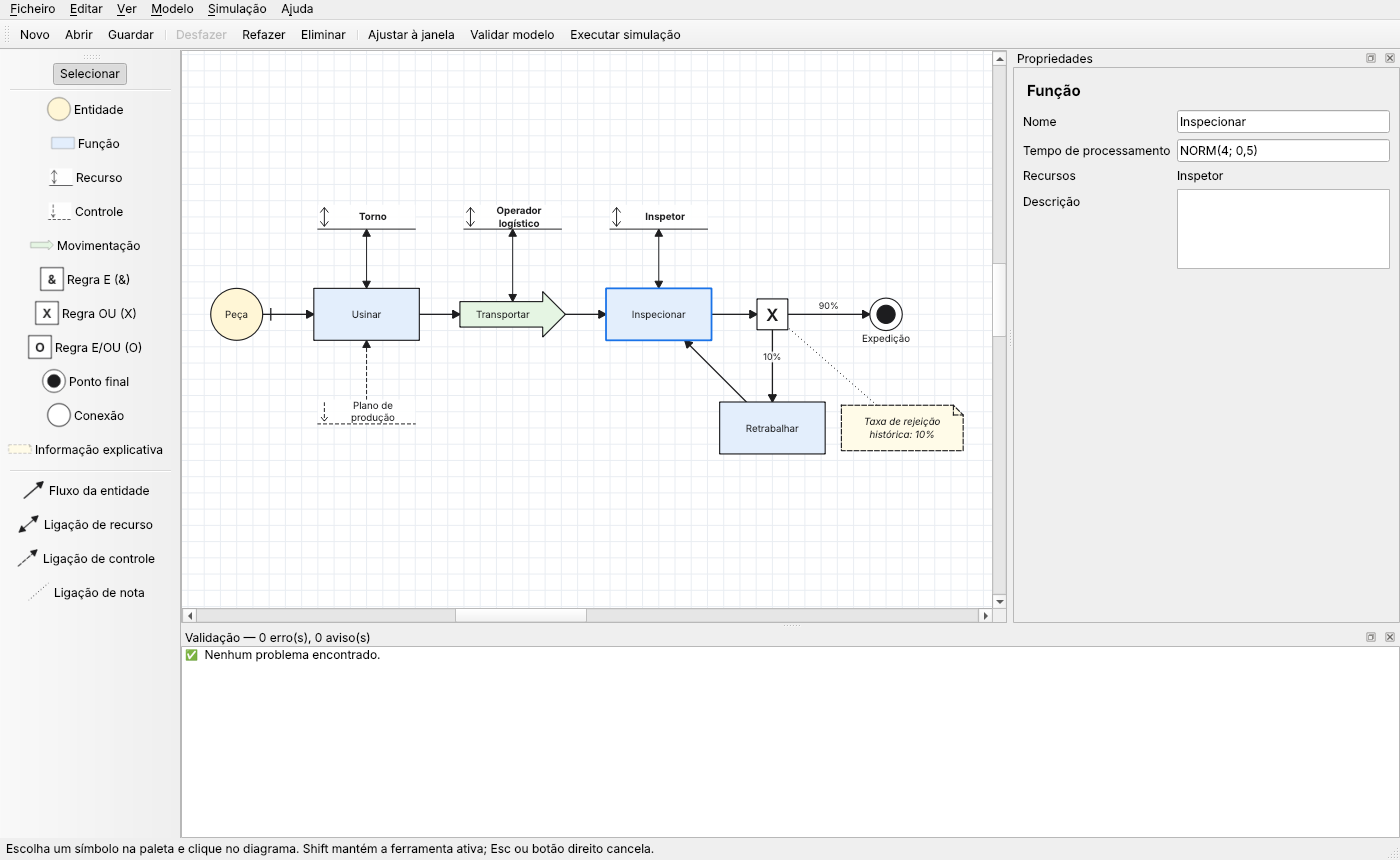
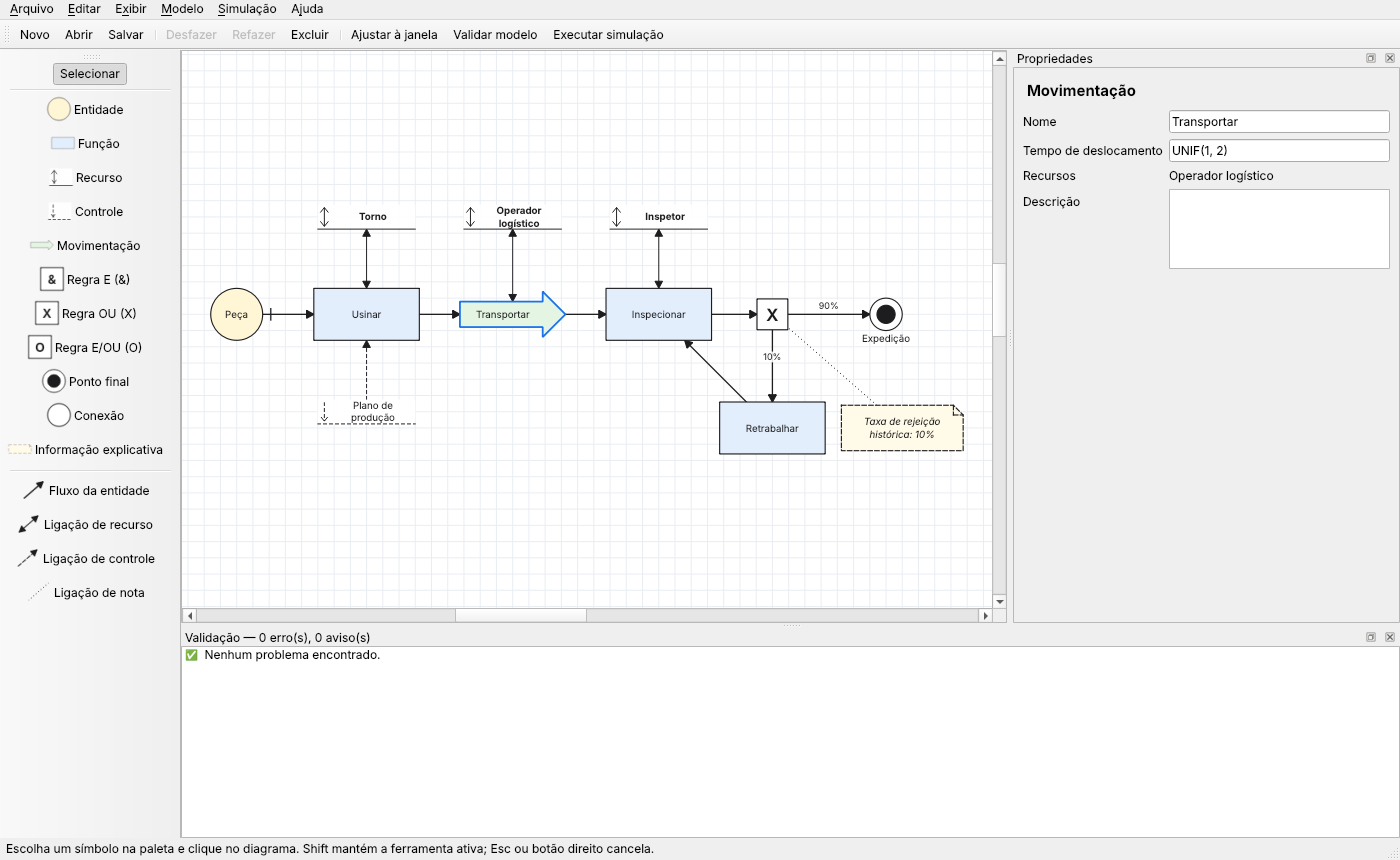
Traduz a interface do IDEF-SIM Studio para português do Brasil
Menus, diálogos, mensagens, exemplos e README passam a usar o
vocabulário brasileiro (Arquivo, Salvar, Excluir, Exibir...) e os
botões padrão do Qt carregam a tradução pt_BR.

Claude-Session: https://claude.ai/code/session_015ZZoPR2mA28L3jUPv8wU52

diff --git a/idefsim/gui/main_window.py b/idefsim/gui/main_window.py
@@ -24,7 +24,7 @@ from .items import EdgeItem, NodeItem
 from .properties import PropertiesPanel
 from .scene import DiagramScene
 
-FILE_FILTER = f"Modelos IDEF-SIM (*{FILE_EXTENSION});;Todos os ficheiros (*)"
+FILE_FILTER = f"Modelos IDEF-SIM (*{FILE_EXTENSION});;Todos os arquivos (*)"
 MAX_HISTORY = 200
 
 
@@ -109,19 +109,19 @@ class MainWindow(QMainWindow):
         S = QKeySequence.StandardKey
         self.a_new = self._act("&Novo", self.new_model, S.New)
         self.a_open = self._act("&Abrir…", lambda: self.open_file(), S.Open)
-        self.a_save = self._act("&Guardar", self.save, S.Save)
-        self.a_save_as = self._act("Guardar &como…", self.save_as, S.SaveAs)
+        self.a_save = self._act("&Salvar", self.save, S.Save)
+        self.a_save_as = self._act("Salvar &como…", self.save_as, S.SaveAs)
         self.a_png = self._act("Exportar imagem PNG…", lambda: self.export_image("png"))
         self.a_svg = self._act("Exportar imagem SVG…", lambda: self.export_image("svg"))
         self.a_html = self._act("Exportar documentação HTML…", self.export_html)
         self.a_quit = self._act("&Sair", self.close, S.Quit)
         self.a_undo = self._act("&Desfazer", self.undo, S.Undo)
         self.a_redo = self._act("&Refazer", self.redo, S.Redo)
-        self.a_del = self._act("&Eliminar", self.scene.delete_selected, S.Delete)
+        self.a_del = self._act("&Excluir", self.scene.delete_selected, S.Delete)
         self.a_dup = self._act("D&uplicar", self.scene.duplicate_selected, "Ctrl+D")
         self.a_all = self._act("Selecionar &tudo", self._select_all, S.SelectAll)
-        self.a_zin = self._act("Ampliar", lambda: self.view.scale(1.2, 1.2), S.ZoomIn)
-        self.a_zout = self._act("Reduzir", lambda: self.view.scale(1 / 1.2, 1 / 1.2), S.ZoomOut)
+        self.a_zin = self._act("Aumentar zoom", lambda: self.view.scale(1.2, 1.2), S.ZoomIn)
+        self.a_zout = self._act("Diminuir zoom", lambda: self.view.scale(1 / 1.2, 1 / 1.2), S.ZoomOut)
         self.a_fit = self._act("Ajustar à janela", self.fit, "Ctrl+0")
         self.a_validate = self._act("&Validar modelo", self.validate, "F7")
         self.a_run = self._act("&Executar simulação", self.run_sim, "F5")
@@ -131,9 +131,9 @@ class MainWindow(QMainWindow):
 
     def _build_menus(self):
         mb = self.menuBar()
-        m = mb.addMenu("&Ficheiro")
+        m = mb.addMenu("&Arquivo")
         m.addActions([self.a_new, self.a_open])
-        self.recent_menu = m.addMenu("Abrir &recente")
+        self.recent_menu = m.addMenu("Abrir &recentes")
         ex = m.addMenu("Abrir &exemplo")
         for name, fn in EXAMPLES.items():
             ex.addAction(self._act(name, lambda _=False, fn=fn: self._load_example(fn)))
@@ -147,7 +147,7 @@ class MainWindow(QMainWindow):
         m.addActions([self.a_undo, self.a_redo])
         m.addSeparator()
         m.addActions([self.a_dup, self.a_del, self.a_all])
-        m = mb.addMenu("&Ver")
+        m = mb.addMenu("E&xibir")
         m.addActions([self.a_zin, self.a_zout, self.a_fit])
         m = mb.addMenu("&Modelo")
         m.addActions([self.a_props, self.a_validate])
@@ -287,7 +287,7 @@ class MainWindow(QMainWindow):
         if eid:
             self.scene.select_element(eid)
 
-    # ---------------------------------------------------------- ficheiros
+    # ---------------------------------------------------------- arquivos
     def _set_dirty(self, d: bool):
         self.dirty = d
         self._update_title()
@@ -299,8 +299,8 @@ class MainWindow(QMainWindow):
     def _maybe_save(self) -> bool:
         if not self.dirty:
             return True
-        r = QMessageBox.question(self, "Alterações por guardar",
-                                 "O modelo tem alterações por guardar. Deseja guardá-las?",
+        r = QMessageBox.question(self, "Alterações não salvas",
+                                 "O modelo tem alterações não salvas. Deseja salvá-las?",
                                  QMessageBox.Save | QMessageBox.Discard | QMessageBox.Cancel)
         if r == QMessageBox.Save:
             return self.save()
@@ -333,7 +333,7 @@ class MainWindow(QMainWindow):
         try:
             model = load_model(path)
         except Exception as ex:  # noqa: BLE001
-            QMessageBox.critical(self, "Erro ao abrir", f"Não foi possível abrir o ficheiro:\n{ex}")
+            QMessageBox.critical(self, "Erro ao abrir", f"Não foi possível abrir o arquivo:\n{ex}")
             return
         self._set_model(model, Path(path))
         self._add_recent(path)
@@ -344,16 +344,16 @@ class MainWindow(QMainWindow):
         try:
             save_model(self.scene.model, self.path)
         except OSError as ex:
-            QMessageBox.critical(self, "Erro ao guardar", str(ex))
+            QMessageBox.critical(self, "Erro ao salvar", str(ex))
             return False
         self._set_dirty(False)
         self._add_recent(str(self.path))
-        self.statusBar().showMessage(f"Guardado em {self.path}", 4000)
+        self.statusBar().showMessage(f"Salvo em {self.path}", 4000)
         return True
 
     def save_as(self) -> bool:
         default = str(Path(self._last_dir()) / (self.scene.model.name + FILE_EXTENSION))
-        path, _ = QFileDialog.getSaveFileName(self, "Guardar modelo", default, FILE_FILTER)
+        path, _ = QFileDialog.getSaveFileName(self, "Salvar modelo", default, FILE_FILTER)
         if not path:
             return False
         if not path.endswith(FILE_EXTENSION):
@@ -483,7 +483,7 @@ class MainWindow(QMainWindow):
                                                    "Validação antes de simular.")
             return
         n = self.scene.model.settings.replications
-        dlg = QProgressDialog("A simular…", "Cancelar", 0, n, self)
+        dlg = QProgressDialog("Simulando…", "Cancelar", 0, n, self)
         dlg.setWindowTitle("Simulação")
         dlg.setWindowModality(Qt.WindowModal)
         dlg.setMinimumDuration(300)

diff --git a/idefsim/gui/properties.py b/idefsim/gui/properties.py
@@ -9,7 +9,7 @@ from .. import distributions as dist
 from ..model import (CONNECTION_LABELS, KIND_LABELS, Connection, ConnectionKind as CK,
                      Element, ElementKind as EK, Model, PROCESS_KINDS)
 
-DIST_HELP = ("Distribuições aceites:\n" + "\n".join(dist.SUPPORTED)
+DIST_HELP = ("Distribuições aceitas:\n" + "\n".join(dist.SUPPORTED)
              + "\n\nUse ';' para separar argumentos com vírgula decimal, ex.: NORM(5,5; 0,8)")
 
 
@@ -123,7 +123,7 @@ class PropertiesPanel(QScrollArea):
         self._spin("Semente", s.seed, setter(s, "seed", "Semente"), 0, 2**31 - 1)
         n_el = len(model.elements)
         self.form.addRow(QLabel(f"<i>{n_el} elementos, {len(model.connections)} ligações.<br>"
-                                "Selecione um elemento para editar as suas propriedades.</i>"))
+                                "Selecione um elemento para editar suas propriedades.</i>"))
 
     # ---------------------------------------------------------------- elemento
     def show_element(self, model: Model, e: Element) -> None:
@@ -150,7 +150,7 @@ class PropertiesPanel(QScrollArea):
 
         if e.kind not in (EK.RULE_AND, EK.RULE_OR, EK.RULE_ANDOR):
             self._line("Nome", e.name, set_name,
-                       "Conectores com o mesmo nome ligam-se entre si." if e.kind == EK.CONNECTOR else "")
+                       "Conectores com o mesmo nome se conectam entre si." if e.kind == EK.CONNECTOR else "")
         else:
             self.form.addRow(QLabel(self._rule_help(e.kind)))
 
@@ -168,7 +168,7 @@ class PropertiesPanel(QScrollArea):
                 self._spin("Máx. de chegadas", e.params.get("max_arrivals", 0),
                            set_param("max_arrivals", "Máx. chegadas"), 0, 10**9, "0 = ilimitado")
         elif e.kind in PROCESS_KINDS:
-            self._line("Tempo" + (" de processamento" if e.kind == EK.FUNCTION else " de deslocação"),
+            self._line("Tempo" + (" de processamento" if e.kind == EK.FUNCTION else " de deslocamento"),
                        e.params.get("duration", ""), set_param("duration", "Tempo"), DIST_HELP, dist.is_valid)
             res = model.resources_of(e.id)
             self.form.addRow("Recursos", QLabel(", ".join(r.name for r in res) or
@@ -197,7 +197,7 @@ class PropertiesPanel(QScrollArea):
             EK.RULE_OR: "<b>X (OU)</b>: a entidade segue apenas uma das saídas, escolhida "
                         "pelas probabilidades.",
             EK.RULE_ANDOR: "<b>O (E/OU)</b>: cada saída é seguida de forma independente "
-                           "com a sua probabilidade.",
+                           "com sua probabilidade.",
         }[kind]
 
     def _prob_row(self, model, c: Connection, name: str):

diff --git a/idefsim/model.py b/idefsim/model.py
@@ -209,7 +209,7 @@ class Model:
     def check_connection(self, kind: ConnectionKind, source: str, target: str) -> tuple[str, str]:
         """Valida e normaliza (source, target). Levanta ConnectionError_."""
         if source == target:
-            raise ConnectionError_("Não é possível ligar um elemento a ele próprio.")
+            raise ConnectionError_("Não é possível ligar um elemento a ele mesmo.")
         s, t = self.elements[source], self.elements[target]
         if kind == ConnectionKind.FLOW:
             if s.kind not in FLOW_SOURCES:
@@ -220,12 +220,12 @@ class Model:
             if t.kind == ElementKind.RESOURCE:
                 s, t = t, s
             if s.kind != ElementKind.RESOURCE or t.kind not in PROCESS_KINDS:
-                raise ConnectionError_("Recursos ligam-se apenas a Funções ou Movimentações.")
+                raise ConnectionError_("Recursos só podem ser ligados a Funções ou Movimentações.")
         elif kind == ConnectionKind.CONTROL:
             if t.kind == ElementKind.CONTROL:
                 s, t = t, s
             if s.kind != ElementKind.CONTROL or t.kind not in PROCESS_KINDS:
-                raise ConnectionError_("Controles ligam-se apenas a Funções ou Movimentações.")
+                raise ConnectionError_("Controles só podem ser ligados a Funções ou Movimentações.")
         elif kind == ConnectionKind.NOTE:
             if t.kind == ElementKind.NOTE:
                 s, t = t, s
@@ -267,7 +267,7 @@ class Model:
     @classmethod
     def from_dict(cls, d: dict) -> "Model":
         if d.get("format") not in (None, "idefsim-studio"):
-            raise ValueError("Ficheiro não é um modelo IDEF-SIM Studio.")
+            raise ValueError("O arquivo não é um modelo IDEF-SIM Studio.")
         m = cls(name=d.get("name", "Modelo"), author=d.get("author", ""),
                 version=str(d.get("version", "1.0")), description=d.get("description", ""),
                 settings=SimulationSettings.from_dict(d.get("settings", {})))

diff --git a/idefsim/simulation.py b/idefsim/simulation.py
@@ -5,13 +5,13 @@ Semântica adotada:
 * **Entidade** sem fluxo de entrada → fonte de chegadas (intervalo, lote,
   primeira chegada, máximo de chegadas). Entidade *com* fluxo de entrada →
   transformação: a entidade que chega passa a ter esse tipo.
-* **Função / Movimentação** → apreende todos os recursos ligados (1 unidade
-  de cada), espera o tempo de processamento e liberta-os. Sem recursos é um
+* **Função / Movimentação** → captura todos os recursos ligados (1 unidade
+  de cada), espera o tempo de processamento e os libera. Sem recursos é um
   atraso puro (capacidade infinita).
 * **Regra OU (X)** → escolhe uma saída pelas probabilidades dos fluxos.
 * **Regra E (&)** → com várias entradas aguarda uma entidade de cada ramo
   (montagem/junção); com várias saídas duplica a entidade (divisão paralela).
-* **Regra E/OU (O)** → cada saída é seguida de forma independente com a sua
+* **Regra E/OU (O)** → cada saída é seguida de forma independente com sua
   probabilidade (pelo menos uma).
 * **Conexão** → a entidade salta para o conector com o mesmo nome que tem
   fluxo de saída.
@@ -366,7 +366,7 @@ class _Replication:
 
 def run_simulation(model: Model,
                    progress: Callable[[int, int], bool | None] | None = None) -> SimulationResult:
-    """Executa todas as replicações. ``progress(i, n)`` pode devolver False para cancelar."""
+    """Executa todas as replicações. ``progress(i, n)`` pode retornar False para cancelar."""
     issues = validate(model)
     if has_errors(issues):
         raise SimulationError("O modelo tem erros:\n" + "\n".join(

diff --git a/idefsim/examples.py b/idefsim/examples.py
@@ -7,7 +7,7 @@ from .model import ConnectionKind as CK, ElementKind as EK, Model
 def usinagem_inspecao() -> Model:
     """Célula de usinagem com inspeção e retrabalho (10% de rejeição)."""
     m = Model(name="Célula de usinagem com inspeção", author="IDEF-SIM Studio",
-              description="Peças chegam, são usinadas no torno, transportadas até à "
+              description="Peças chegam, são usinadas no torno, transportadas até a "
                           "inspeção; 10% seguem para retrabalho e voltam à inspeção.")
     m.settings.duration, m.settings.warmup, m.settings.replications = 480, 60, 10
     peca = m.add_element(EK.ENTITY, 60, 200, "Peça", interarrival="EXPO(6)")
@@ -38,7 +38,7 @@ def usinagem_inspecao() -> Model:
 
 
 def montagem() -> Model:
-    """Montagem: base e tampa juntam-se numa regra E (&) e formam o produto."""
+    """Montagem: base e tampa se juntam em uma regra E (&) e formam o produto."""
     m = Model(name="Montagem com junção E", author="IDEF-SIM Studio")
     m.settings.duration, m.settings.replications = 600, 5
     base = m.add_element(EK.ENTITY, 60, 120, "Base", interarrival="EXPO(5)")

diff --git a/idefsim/gui/dialogs.py b/idefsim/gui/dialogs.py
@@ -92,9 +92,9 @@ LEGEND = [
     (CK.FLOW, "Fluxo da entidade", "Direção do movimento da entidade entre elementos. "
                                    "O traço na origem marca a entrada no sistema."),
     (EK.RESOURCE, "Recurso", "Elemento usado para executar a função (máquina, operador). "
-                             "Liga-se à função por uma seta dupla."),
+                             "É ligado à função por uma seta dupla."),
     (EK.CONTROL, "Controle", "Regra que governa a função (plano, ordem, política). "
-                             "Liga-se à função por seta tracejada."),
+                             "É ligado à função por seta tracejada."),
     (EK.RULE_AND, "Regra E (&)", "Fluxos paralelos: divide a entidade em todos os ramos ou "
                                  "junta uma entidade de cada ramo."),
     (EK.RULE_OR, "Regra OU (X)", "Fluxos alternativos: apenas um dos caminhos é seguido."),

diff --git a/idefsim/distributions.py b/idefsim/distributions.py
@@ -1,6 +1,6 @@
 """Distribuições estatísticas em notação semelhante à do Arena.
 
-Exemplos aceites::
+Exemplos aceitos::
 
     5            CONST(5)        EXPO(10)        NORM(5; 0,5)
     TRIA(2, 4, 7)  UNIF(1, 3)    LOGN(5, 1)      ERLA(6, 3)   WEIB(5, 2)
@@ -108,7 +108,7 @@ def parse(text: str) -> Distribution:
     if name in ("NORM", "LOGN") and args[1] < 0:
         raise DistributionError(f"{name}: o desvio não pode ser negativo.")
     if name == "TRIA" and not (args[0] <= args[1] <= args[2]):
-        raise DistributionError("TRIA: deve verificar mín ≤ moda ≤ máx.")
+        raise DistributionError("TRIA: deve satisfazer mín ≤ moda ≤ máx.")
     if name == "UNIF" and args[0] > args[1]:
         raise DistributionError("UNIF: mín deve ser ≤ máx.")
     if name == "ERLA" and (args[1] < 1 or args[1] != int(args[1])):

diff --git a/idefsim/gui/scene.py b/idefsim/gui/scene.py
@@ -111,7 +111,7 @@ class DiagramScene(QGraphicsScene):
         self.refresh_all()
         self.clearSelection()
         self.edges[c.id].setSelected(True)
-        self.modelChanged.emit("Ligar elementos", "")
+        self.modelChanged.emit("Conectar elementos", "")
         return c
 
     def delete_selected(self) -> None:
@@ -147,7 +147,7 @@ class DiagramScene(QGraphicsScene):
             for v in self.views():
                 v.centerOn(self.nodes[eid])
 
-    # ------------------------------------------------------------------ rato
+    # ----------------------------------------------------------------- mouse
     def mousePressEvent(self, ev):
         if ev.button() == Qt.RightButton and self.tool != "select":
             self.set_tool("select")

diff --git a/idefsim/report.py b/idefsim/report.py
@@ -18,7 +18,7 @@ _ORDER = [EK.ENTITY, EK.FUNCTION, EK.MOVEMENT, EK.RESOURCE, EK.CONTROL,
 
 def model_to_html(model: Model, diagram_svg: str | None = None) -> str:
     u = escape(model.settings.time_unit)
-    h = [f"<!doctype html><html lang='pt'><meta charset='utf-8'><title>{escape(model.name)}</title>",
+    h = [f"<!doctype html><html lang='pt-BR'><meta charset='utf-8'><title>{escape(model.name)}</title>",
          "<style>body{font-family:Segoe UI,Arial,sans-serif;margin:2em;color:#222}"
          "table{border-collapse:collapse;margin:.5em 0 1.5em;width:100%}"
          "td,th{border:1px solid #bbb;padding:4px 8px;text-align:left;vertical-align:top}"

diff --git a/idefsim/__main__.py b/idefsim/__main__.py
@@ -12,7 +12,7 @@ def main() -> int:
     app.setStyle("Fusion")
     tr = QTranslator(app)
     tr_dir = QLibraryInfo.path(QLibraryInfo.LibraryPath.TranslationsPath)
-    for lang in (QLocale.system().name(), "pt_BR", "pt_PT"):
+    for lang in ("pt_BR",):
         if tr.load(f"qtbase_{lang}", tr_dir):
             app.installTranslator(tr)
             break

diff --git a/idefsim/gui/shapes.py b/idefsim/gui/shapes.py
@@ -1,4 +1,4 @@
-"""Desenho dos símbolos IDEF-SIM (partilhado entre o diagrama e os ícones)."""
+"""Desenho dos símbolos IDEF-SIM (compartilhado entre o diagrama e os ícones)."""
 from __future__ import annotations
 
 from PySide6.QtCore import QPointF, QRectF, Qt

diff --git a/README.md b/README.md
@@ -10,11 +10,11 @@ simulação a eventos discretos.
 
 | Área | O que faz |
 |---|---|
-| **Editor gráfico** | Paleta com todos os símbolos IDEF-SIM. Pode arrastar, encaixar na grelha, fazer zoom (Ctrl+roda), duplicar (Ctrl+D), eliminar, desfazer e refazer. |
+| **Editor gráfico** | Paleta com todos os símbolos IDEF-SIM. Pode arrastar, encaixar na grade, dar zoom (Ctrl+roda), duplicar (Ctrl+D), excluir, desfazer e refazer. |
 | **Propriedades** | Nome, descrição e parâmetros de cada elemento: chegadas, tempos, capacidades e probabilidades. |
-| **Validação** (F7) | Erros e avisos em tempo real: elementos sem fluxo, distribuições inválidas, conectores sem par, probabilidades, elementos inalcançáveis… Clique numa mensagem para ir ao elemento. |
+| **Validação** (F7) | Erros e avisos em tempo real: elementos sem fluxo, distribuições inválidas, conectores sem par, probabilidades, elementos inalcançáveis… Clique em uma mensagem para ir ao elemento. |
 | **Simulação** (F5) | Motor de eventos discretos (SimPy) que executa o próprio diagrama, com replicações, aquecimento, média, desvio padrão e IC 95%. Os resultados exportam para CSV. |
-| **Gestão de modelos** | Ficheiros `.idefsim` (JSON legível e versionável), metadados (autor, versão e descrição), ficheiros recentes e modelos de exemplo. |
+| **Gestão de modelos** | Arquivos `.idefsim` (JSON legível e versionável), metadados (autor, versão e descrição), arquivos recentes e modelos de exemplo. |
 | **Documentação** | Exportação do diagrama em PNG ou SVG e do dicionário do modelo conceitual em HTML (com o diagrama embutido). |
 
 ## Instalação e execução
@@ -45,7 +45,7 @@ python -m pytest
 ## Como modelar
 
 1. Escolha um símbolo na paleta (ou use o atalho) e clique no diagrama. **Shift** mantém a ferramenta ativa; **Esc** ou o botão direito volta a *Selecionar*.
-2. Para ligar dois elementos, escolha a ligação (*Fluxo*, *Recurso*, *Controle* ou *Nota*), clique na origem e depois no destino.
+2. Para conectar dois elementos, escolha a ligação (*Fluxo*, *Recurso*, *Controle* ou *Nota*), clique na origem e depois no destino.
 3. Edite os parâmetros no painel **Propriedades**. Sem nada selecionado, o painel mostra as propriedades do modelo (duração, aquecimento, replicações, unidade de tempo).
 4. **F7** valida o modelo e **F5** executa a simulação.
 
@@ -54,13 +54,13 @@ python -m pytest
 | Símbolo | Atalho | Interpretação na simulação |
 |---|---|---|
 | Entidade (círculo) | E | Sem fluxo de entrada é uma **fonte de chegadas** (intervalo, primeira chegada, lote, máximo). Com fluxo de entrada é uma **transformação**: a entidade passa a ser deste tipo. |
-| Função (retângulo) | F | Apreende 1 unidade de cada recurso ligado, processa durante o tempo definido e liberta os recursos. Sem recurso, capacidade infinita. |
-| Recurso | R | Capacidade (n.º de unidades). Liga-se à função com *Ligação de recurso* (seta dupla). |
-| Controle | C | Documental. Liga-se à função com seta tracejada. |
+| Função (retângulo) | F | Captura 1 unidade de cada recurso ligado, processa durante o tempo definido e libera os recursos. Sem recurso, capacidade infinita. |
+| Recurso | R | Capacidade (n.º de unidades). É ligado à função pela *Ligação de recurso* (seta dupla). |
+| Controle | C | Documental. É ligado à função por seta tracejada. |
 | Movimentação (seta larga) | M | Como a função, mas representa um transporte. |
 | Regra E (&) | 1 | Várias entradas: espera uma entidade de cada ramo (junção ou montagem). Várias saídas: segue por todos os ramos (paralelo). |
 | Regra OU (X) | 2 | Segue **uma** saída, escolhida pelas probabilidades. |
-| Regra E/OU (O) | 3 | Cada saída é seguida de forma independente com a sua probabilidade (pelo menos uma). |
+| Regra E/OU (O) | 3 | Cada saída é seguida de forma independente com sua probabilidade (pelo menos uma). |
 | Ponto final | X | A entidade sai do sistema (contabiliza o tempo no sistema). |
 | Conexão | K | Conectores com o **mesmo nome** estão ligados (útil para diagramas grandes). |
 | Informação explicativa | N | Nota de texto, sem efeito na simulação. |
@@ -90,11 +90,11 @@ idefsim/
   validation.py     verificação de consistência
   simulation.py     motor SimPy e estatísticas
   report.py         documentação HTML
-  storage.py        leitura e gravação .idefsim
+  storage.py        leitura e gravação de .idefsim
   examples.py       modelos de exemplo
   gui/              interface PySide6 (janela, cena, itens, propriedades, diálogos)
 tests/              testes automáticos (núcleo + interface)
-examples/           ficheiros .idefsim de exemplo
+examples/           arquivos .idefsim de exemplo
 ```
 
 O núcleo (`model`, `simulation`, …) não depende da interface, por isso pode ser usado
